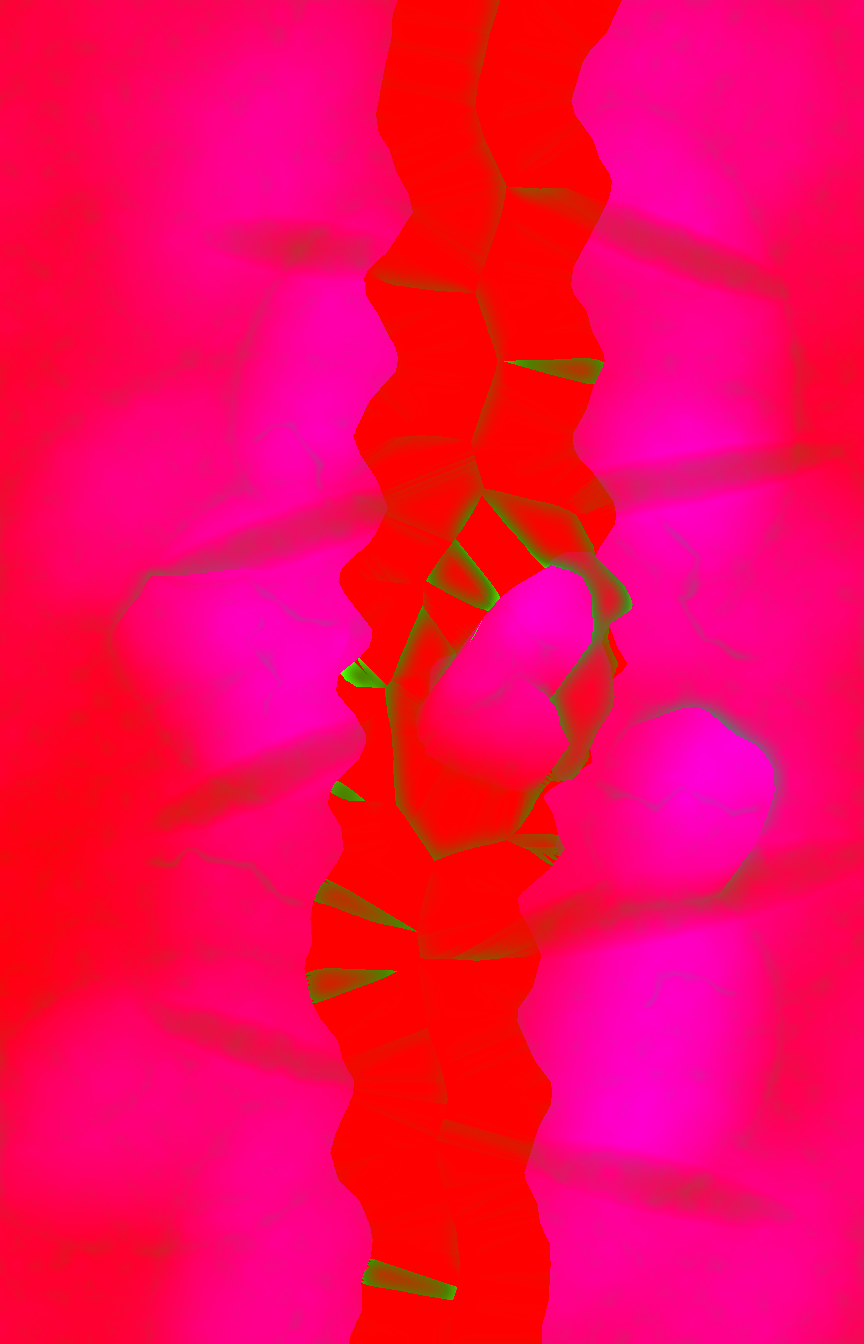
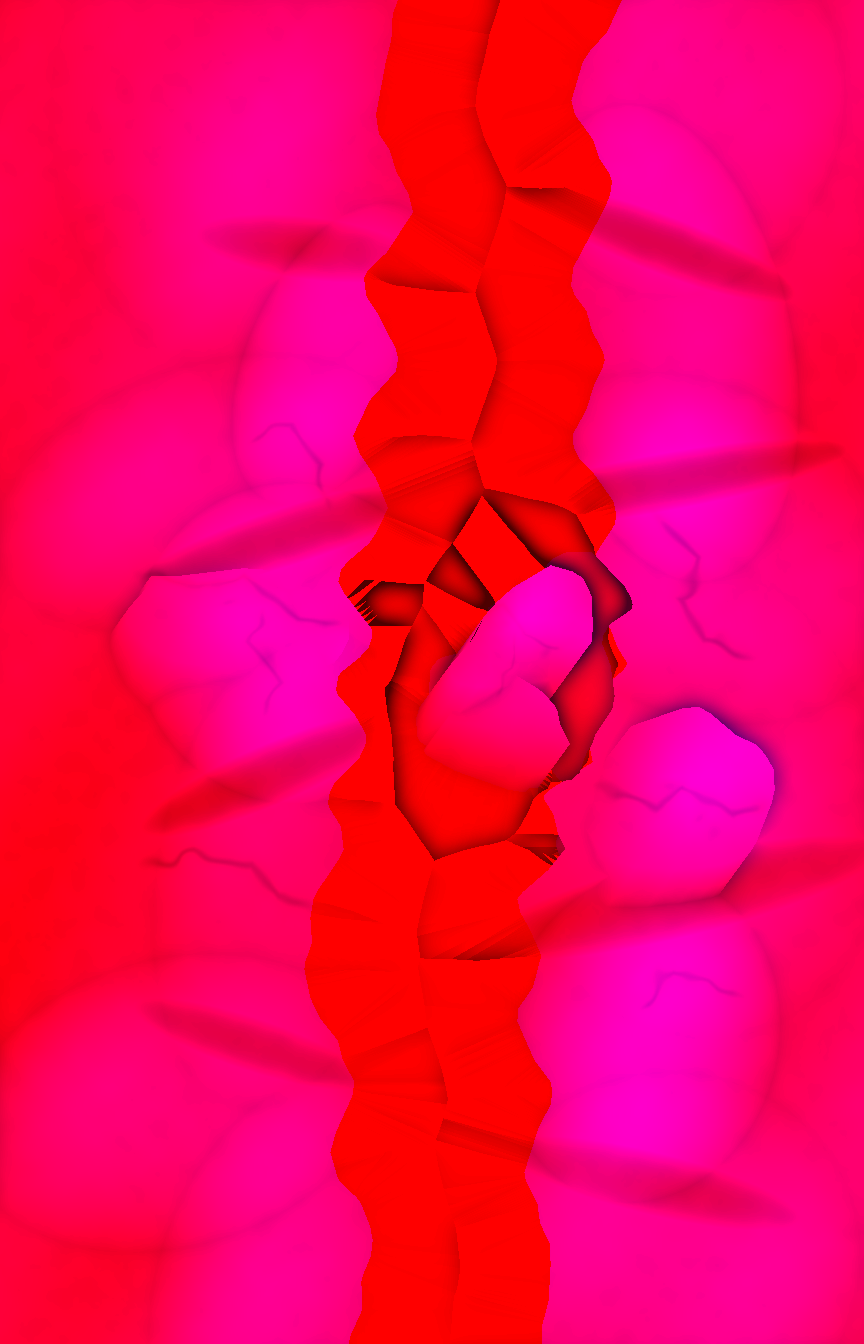
study: refine fractured rock relief and preserve independently playable cave versions

diff --git a/scripts/checkCaveVersions.js b/scripts/checkCaveVersions.js
@@ -1,0 +1,43 @@
+const fs=require('fs'),path=require('path'),assert=require('assert/strict'),crypto=require('crypto');
+const {execFileSync}=require('child_process');
+const {list,build,board}=require('./buildCaveVersions');
+const {openReviewBrowser}=require('../design/cave-room/browser.cjs');
+const root=path.resolve(__dirname,'..'),wait=ms=>new Promise(r=>setTimeout(r,ms));
+const digest=bytes=>crypto.createHash('sha256').update(bytes).digest('hex');
+(async()=>{
+ const before=execFileSync('git',['status','--porcelain'],{cwd:root}).toString();
+ const versions=list(),reports=[];
+ for(const v of versions){
+  const output=build(v),source=path.join(root,'node_modules/.cache/cave-versions',v.id,'source');
+  assert(!fs.existsSync(path.join(source,'project.private.config.json')));
+  assert(!fs.existsSync(path.join(source,'.git')));
+  const assetDir=v.mode==='sculpt'?'design/cave-room/sculpt/assets':'images/cave-rock';
+  for(const file of ['room-albedo.png','room-normal.png','room-detail.png','room-back.png']){
+   const expected=execFileSync('git',['show',v.commit+':'+assetDir+'/'+file],{cwd:root,maxBuffer:16*1024*1024});
+   assert.equal(digest(fs.readFileSync(path.join(source,assetDir,file))),digest(expected),'Frozen assets must belong to '+v.ref);
+  }
+  const b=await openReviewBrowser('http://127.0.0.1:60972/'+output.entry,1000,920);
+  try{
+   await b.evaluate('Object.defineProperty(window,"performance",{value:undefined,configurable:true});true');
+   const rect=await b.evaluate('(()=>{const r=document.getElementById("game").getBoundingClientRect();return {x:r.x,y:r.y,w:r.width,h:r.height}})()');
+   await b.click(rect.x+187.5/375*rect.w,rect.y+554/667*rect.h);
+   for(let i=0;i<240;i++){if(await b.evaluate('DeepTapeGame.state.mazeRescue?.phase==="play"'))break;await wait(100);}
+   assert.equal(await b.evaluate('DeepTapeGame.state.mazeRescue?.phase'),'play');
+   // Let the existing initial oxygen grace period expire before measuring consumption.
+   await wait(6500);
+   const first=await b.evaluate('({o2:DeepTapeGame.player.o2,anim:DeepTapeGame.player.animTime,rock:DeepTapeGame.cave.stats()})');
+   await wait(1100);
+   const after=await b.evaluate('({o2:DeepTapeGame.player.o2,anim:DeepTapeGame.player.animTime,rock:DeepTapeGame.cave.stats()})');
+   assert(first.rock.loaded&&after.rock.loaded);assert.equal(after.rock.mode,'normal-map');
+   assert(after.o2<first.o2&&after.anim>first.anim,JSON.stringify({id:v.id,first,after}));assert.equal(b.errors.length,0);
+   await b.evaluate('DeepTapeGame.menu();true');await wait(100);
+   const exit=await b.evaluate('({screen:DeepTapeGame.state.screen,rock:DeepTapeGame.cave.stats()})');
+   assert.equal(exit.screen,'menu');assert(!exit.rock.loaded);assert.equal(exit.rock.textureBytes,0);
+   reports.push({id:v.id,ref:v.ref,assetsFromOwnCommit:true,noPerformance:true,first,after,exit,errors:b.errors});
+  }finally{await b.close();}
+ }
+ board(versions);
+ assert.equal(execFileSync('git',['status','--porcelain'],{cwd:root}).toString(),before,'Historical builds must not modify working-tree files or branch');
+ fs.writeFileSync(path.join(root,'node_modules/.cache/cave-versions/check-report.json'),JSON.stringify({reports,scope:'Independent historical actual-game desktop runs, not phone GPU acceptance'},null,2));
+ console.log(JSON.stringify({versions:reports.map(r=>({id:r.id,ref:r.ref,assetsFromOwnCommit:true,play:true,exit:true})),workingTreeUnchanged:true},null,2));
+})().catch(e=>{console.error(e);process.exitCode=1});

diff --git a/design/cave-room/sculpt/progress.py b/design/cave-room/sculpt/progress.py
@@ -1,0 +1,27 @@
+from pathlib import Path
+from PIL import Image
+import json
+
+ROOT=Path(__file__).resolve().parents[3]
+CACHE=ROOT/'node_modules/.cache'
+STUDY=CACHE/'cave-sculpt-study'
+OLD=STUDY/'sculpt-depth'
+NEW=STUDY/'sculpt-e02-refined'
+OUT=CACHE/'cave-forward'
+OUT.mkdir(parents=True,exist_ok=True)
+frames=[]
+for i in range(13):
+    a=Image.open(OLD/f'turn-{i:02}.png').convert('RGB').resize((300,534),Image.Resampling.LANCZOS)
+    b=Image.open(NEW/f'turn-{i:02}.png').convert('RGB').resize((300,534),Image.Resampling.LANCZOS)
+    pair=Image.new('RGB',(608,534),(16,25,30));pair.paste(a,(0,0));pair.paste(b,(308,0));frames.append(pair)
+frames+=list(reversed(frames[1:-1]))
+frames[0].save(OUT/'turn.gif',save_all=True,append_images=frames[1:],duration=150,loop=0,optimize=True)
+html='''<!doctype html><html lang="zh-CN"><head><meta charset="utf-8"><meta name="viewport" content="width=device-width,initial-scale=1"><title>DEEPTAPE · E02进展与版本留存</title><style>
+*{box-sizing:border-box}body{margin:0;background:#111c22;color:#e1e2d9;font:15px -apple-system,BlinkMacSystemFont,"PingFang SC",sans-serif;line-height:1.75}main{max-width:1040px;margin:auto;padding:46px 22px}h1{font-size:32px;line-height:1.35}h2{font-size:21px;margin-top:0}p,small{color:#a9beba}section{padding:24px;border:1px solid #34505a;background:#182930;margin:24px 0;border-radius:5px}.pair{display:grid;grid-template-columns:1fr 1fr;gap:16px}.pair figure{margin:0;text-align:center}.pair img{width:375px;max-width:100%;height:auto}figcaption{font-size:13px;color:#b2c6bf;margin-bottom:12px}.actions{display:flex;gap:10px;flex-wrap:wrap;margin:20px 0}button,a.action{padding:10px 15px;color:#d2e3d9;background:#213b40;border:1px solid #54756f;border-radius:3px;text-decoration:none;cursor:pointer;font:inherit}button.active,a.primary{color:#142d2c;background:#b6cec0}button:focus-visible,a:focus-visible{outline:2px solid #dfcba1;outline-offset:3px}.proof{display:grid;grid-template-columns:1.6fr 1fr;gap:24px}.proof figure{margin:0}.proof img{width:100%;height:auto}footer{font-size:12px;color:#8aa5a4}a{color:#b8d7c6}@media(max-width:640px){main{padding:26px 12px}h1{font-size:27px}section{padding:16px}.pair{gap:8px}.proof{display:block}.proof figure{margin-bottom:20px}}
+</style></head><body><main><small>DEEPTAPE / E02 / PRESERVED CHECKPOINTS</small><h1>继续厚岩方向，旧版全部留下。</h1><p>先把大形保住，再让凹槽与有限裂缝参与受光。第一遍细碎凹凸太多，已独立留档；当前E02收敛版减少微起伏，保留主裂缝、局部破口与克制的层理。</p><div class="actions"><a class="action primary" href="../cave-versions/sculpt-e02/source/node_modules/.cache/cave-sculpt-study/live/game.html">实际游戏试跑E02</a><a class="action" href="../cave-versions/index.html">打开所有保留版本</a></div><p>手机仍保留已跑通的v1.0.20。本轮是独立实验，不冒充最终美术或真机性能验收。</p>
+<section><h2>同观察点的实际游戏对照</h2><p>左侧是E01，右侧是E02。仍使用游戏的潜水员、HUD、水体手电和正常模拟；按同观察点初始化，模拟持续运行，不是像素级冻结截图。</p><div class="actions"><button class="active" data-site="0">断冠</button><button data-site="1">左壁</button><button data-site="2">右壁</button></div><div class="pair"><figure><figcaption>E01 · 原厚断面实验，固定回退点</figcaption><img id="old" src="../cave-sculpt-study/sculpt-depth/site-0.png" alt="E01实际游戏"></figure><figure><figcaption>E02 · 收敛后的凹槽与断口实验</figcaption><img id="new" src="../cave-sculpt-study/sculpt-e02-refined/site-0.png" alt="E02实际游戏"></figure></div></section>
+<section><h2>转灯与单色检查</h2><div class="proof"><figure><figcaption>转动实际手电：左E01，右E02</figcaption><img src="turn.gif" alt="E01和E02转灯对照"></figure><figure><figcaption>E02去掉颜色纹理，观察凹槽与厚面</figcaption><img src="../cave-sculpt-study/sculpt-e02-refined/untextured.png" alt="E02单色受光验证"></figure></div><p>主裂缝是有限终止的真实深度槽，不是画死的黑线；新增起伏用相同表面的导数更新法线。轮廓局部破损也同步到实际碰撞、手电、锚点和绳索。</p></section>
+<section><h2>当前结论与下一步</h2><p>这版缓解了过于光滑的表面，但整体断面和侧面的自然节奏仍未定稿。下一步继续优先组织岩体层次、断口与遮挡，而不是加更多纹理盖住问题。</p><p>实验四图约1.18MiB，未新增图片数量或解码内存。法线与材质采用有损但误差受控导出，高度与抗锯齿透明覆盖率仍保留8位精度。手机包体没有改变；大小通过不代表手机GPU帧率通过。</p><p>原美术、手机基线、E01、E02初稿和E02收敛版分别有Git提交与命名回退点。版本目录从各自标签重建独立资源，不共用当前贴图，也不切换工作分支。</p></section><footer>所有回退点为本地Git留存，未推送远端。缓存不是备份，可从固定标签重建。当前仍是单层可见深度烘焙，不是完整实时3D洞穴。</footer>
+</main><script>for(const b of document.querySelectorAll('[data-site]'))b.onclick=()=>{for(const a of document.querySelectorAll('[data-site]'))a.classList.toggle('active',a===b);document.getElementById('old').src='../cave-sculpt-study/sculpt-depth/site-'+b.dataset.site+'.png';document.getElementById('new').src='../cave-sculpt-study/sculpt-e02-refined/site-'+b.dataset.site+'.png';};</script></body></html>'''
+(OUT/'index.html').write_text(html)
+print(OUT/'index.html')

diff --git a/design/cave-room/sculpt/bake.py b/design/cave-room/sculpt/bake.py
@@ -223,9 +223,17 @@ slab([[526,605],[582,589],[645,642],[623,711],[530,723],[481,678]],
 from shapely.geometry import Polygon
 from shapely.ops import unary_union
 expanded=[]
+from shapely.geometry import Point
+from shapely.affinity import scale as scale_polygon
+# Sparse authored edge breaks, not a universal wavy edge or random pixel teeth.
+edge_breaks=[[(309,531,6,9)],[(458,658,6,7)],[(445,661,8,5),(509,588,5,8)]]
 for owner,p in enumerate(shapes):
     faces=[Polygon(np.array(ps)[:,:2]).buffer(0) for ps,n,pigment,smooth,tag in triangles if tag==owner]
-    merged=unary_union([Polygon(p).buffer(0)]+faces).simplify(.95,preserve_topology=True)
+    merged=unary_union([Polygon(p).buffer(0)]+faces)
+    for cx,cy,rx,ry in edge_breaks[owner]:
+        cutter=scale_polygon(Point(cx,cy).buffer(1,resolution=12),rx,ry,origin=(cx,cy))
+        merged=merged.difference(cutter)
+    merged=merged.simplify(.85,preserve_topology=True)
     if merged.geom_type!='Polygon':
         merged=max(merged.geoms,key=lambda p:p.area)
     expanded.append([[round(x,2),round(y,2)] for x,y in list(merged.exterior.coords)[:-1]])
@@ -307,16 +315,27 @@ material=np.clip(material+mineral_pigment+grain[:,:,None],0,1)
 material[~mask] = 0
 
 
-def write_rgba(name, rgb, a):
-    data = np.dstack([np.clip(np.rint(rgb*255),0,255).astype(np.uint8), a.astype(np.uint8)])
+def write_rgba(name, rgb, a, quantized_channels=()):
+    # Bounded quantization; not lossless. Alpha and depth retain all eight bits.
+    rgb=np.clip(rgb,0,1).copy()
+    for k in quantized_channels:
+        rgb[:,:,k]=np.rint(rgb[:,:,k]*63)/63
+    data = np.dstack([np.rint(rgb*255).astype(np.uint8), a.astype(np.uint8)])
     Image.fromarray(data).save(OUT/name, optimize=True, compress_level=9)
+    return data
 
 
-write_rgba('room-albedo.png', material, alpha)
-write_rgba('room-normal.png', normal_map*.5+.5, np.full((H,W),255))
-# Existing three runtime channels: no extra decoded image/GPU texture.
-detail = np.stack([ao, np.clip(cavity/100,0,1), np.clip(height/HEIGHT_SCALE,0,1)], axis=2)
-write_rgba('room-detail.png', detail, np.full((H,W),255))
+write_rgba('room-albedo.png', material, alpha, (0,1,2))
+encoded_normal=write_rgba('room-normal.png', normal_map*.5+.5, np.full((H,W),255), (0,1,2))
+decoded_normal=encoded_normal[:,:,:3].astype(float)/255*2-1
+normal_length=np.linalg.norm(decoded_normal,axis=2)
+decoded_normal/=np.maximum(1e-8,normal_length)[:,:,None]
+angular_error=np.degrees(np.arccos(np.clip(np.sum(decoded_normal*normal_map,axis=2),-1,1)))[mask]
+assert angular_error.max()<1.8,'Normal export must keep bounded angular error'
+# G is not read by the renderer. Keep the slot zero instead of redundant cavity data.
+# AO is six-bit; depth remains eight-bit with no downsampling or edge thresholding.
+detail = np.stack([ao, np.zeros_like(ao), np.clip(height/HEIGHT_SCALE,0,1)], axis=2)
+write_rgba('room-detail.png', detail, np.full((H,W),255), (0,))
 shutil.copyfile(ROOT/'images/cave-rock/room-back.png', OUT/'room-back.png')
 scene = dict(BASE)
 scene.update(shapes=shapes, heightScale=HEIGHT_SCALE, lampHeight=LAMP_HEIGHT, projection=[PX,PY])
@@ -330,6 +349,9 @@ report = dict(outlineVertices=sum(map(len,shapes)), baselineVertices=sum(map(len
               revision='E02-geological-relief',
               reliefRange=np.percentile(relief[mask],[1,10,50,90,99]).tolist(),
               fissureSamples=int(np.count_nonzero((fracture_depth<-5)&mask)),
+              export=dict(lossless=False,normalAngularP99=float(np.percentile(angular_error,99)),
+                          normalAngularMax=float(angular_error.max()),
+                          normalChannels=64,AOChannels=64,depthBits=8,alphaBits=8,unusedGreen=0),
               limits='single visible-depth bake: not full runtime 3D or view-dependent disocclusion',
               bytes=sum(p.stat().st_size for p in OUT.glob('*.png')))
 (OUT/'report.json').write_text(json.dumps(report, indent=2))

diff --git a/design/cave-room/sculpt/check_geology.py b/design/cave-room/sculpt/check_geology.py
@@ -1,0 +1,31 @@
+import json
+import numpy as np
+from geology import fissure,displaced_normal,sculpt_relief
+
+for scale in [1,1.2,2]:
+    y,x=np.mgrid[0:80*scale,0:120*scale].astype(float)
+    y/=scale
+    x/=scale
+    px,py=.35,-.48
+    old_h=.24*x-.31*y
+    old_n=np.stack([np.full(x.shape,-.24),np.full(x.shape,.31),np.full(x.shape,1-px*.24+py*.31)],axis=2)
+    old_n/=np.linalg.norm(old_n,axis=2)[:,:,None]
+    extra=1.8*np.sin(x*.067)+.6*np.cos(y*.11)
+    new_n=displaced_normal(old_n,extra,scale,px,py)
+    dy,dx=np.gradient(old_h+extra,1/scale)
+    expected=np.stack([-dx,-dy,1-px*dx-py*dy],axis=2)
+    expected/=np.linalg.norm(expected,axis=2)[:,:,None]
+    assert np.max(abs(new_n-expected))<1e-12
+    unchanged=displaced_normal(old_n,np.full(x.shape,5.),scale,px,py)
+    assert np.max(abs(old_n-unchanged))<1e-12
+x=np.array([[10,40,65,95,120]],float)
+y=np.full_like(x,30)
+cut=fissure(x,y,[[30,30],[90,30]],4,14)
+assert cut[0,2]<-10
+assert abs(cut[0,0])<1e-6 and abs(cut[0,-1])<1e-6,'Finite fissures must terminate'
+y,x=np.mgrid[0:240,0:240].astype(float)
+a,p,c=sculpt_relief(x,y,1)
+b,q,d=sculpt_relief(x,y,1)
+assert np.array_equal(a,b) and np.array_equal(p,q) and np.array_equal(c,d),'Bake must be reproducible'
+assert np.max(abs(p))<.15,'Pigment must not bake a strong fixed key light'
+print(json.dumps({'normalDerivative':'Matches actual projected depth derivative at three resolutions','finiteFissure':True,'reproducible':True,'scope':'Geometry math, not art or phone performance acceptance'},indent=2))

diff --git a/design/cave-room/sculpt/check.py b/design/cave-room/sculpt/check.py
@@ -49,7 +49,12 @@ for h in [8,29,70,110,140,185]:
 assert scene['heightScale']>report['heightPercentiles'][-1]
 mask=albedo[:,:,3]>250
 n=normal[:,:,:3].astype(float)/255*2-1
-assert np.percentile(abs(np.linalg.norm(n[mask],axis=1)-1),99)<.013
+export=report.get('export')
+assert np.percentile(abs(np.linalg.norm(n[mask],axis=1)-1),99)<(.029 if export else .013)
+if export:
+    assert export['normalAngularMax']<1.8 and export['normalAngularP99']<1.6
+    assert export['alphaBits']==export['depthBits']==8
+    assert (detail[:,:,1]==0).all(),'Unused channel must not cost entropy or affect lighting'
 assert report['meshFaces']>50
 assert len(list(OUT.glob('room-*.png')))==4,'No extra runtime image or GPU texture'
 print(json.dumps(dict(coverageSamples=samples,outlineVertices=report['outlineVertices'],fractionalCoverage=True,sharedDepthAndNormal=True,faces=report['meshFaces'],scope='Geometry/resource invariants; aesthetic and real-phone acceptance still separate'),indent=2))

diff --git a/design/cave-room/sculpt/geology.py b/design/cave-room/sculpt/geology.py
@@ -50,11 +50,11 @@ def sculpt_relief(x,y,scale):
     grain=continuous_noise(shape,1.25,75,scale)
     wx=x+macro*5.5+middle*1.6
     wy=y+macro*4+middle*1.8
-    # Unequal tilted strata, interrupted by fracture zones. No Voronoi stone tiling.
-    coordinate=wy*.052+wx*.020+macro*.45
-    band=np.sin(coordinate)+.31*np.sin(coordinate*2.23+.8)
-    strata=5.1*np.tanh(band*1.7)*( .60+.25*np.tanh(macro*.6))
-    relief=strata+middle*1.9+small*.68+grain*.16
+    # Subordinate relief: retain broad mass planes instead of covering them in lumps.
+    coordinate=wy*.044+wx*.016+macro*.25
+    band=np.sin(coordinate)+.16*np.sin(coordinate*2.23+.8)
+    strata=2.7*np.tanh(band*1.05)*(.60+.25*np.tanh(macro*.6))
+    relief=strata+middle*.58+small*.11+grain*.035
     cracks=[
         ([[104,473],[166,488],[204,481],[246,513],[290,520]],3.2,13),
         ([[225,508],[215,542],[233,568],[219,598]],2.3,10),

diff --git a/design/cave-room/VERSIONS.md b/design/cave-room/VERSIONS.md
@@ -1,0 +1,55 @@
+# 洞穴美术与运行版本档案
+
+用户于2026-10-26明确要求继续推进，同时把不同版本留住，保留回退机会。规则是每轮重要版本独立提交并加命名标签；后续不移动旧标签，也不强制重写历史。
+
+| 回退点 | 保存内容 | 状态 |
+| --- | --- | --- |
+| `cave/art-approved-01` | 首次让用户稍微满意的断冠双岔洞美术、原图与制作管线 | 美术方向基线，非定稿 |
+| `cave/mobile-v1.0.20` | 手机已跑通版本、真实玩法、无performance兼容修复 | 手机运行基线 |
+| `cave/sculpt-e01` | 上一轮厚岩雕刻、投影侧面与不规则轮廓 | 独立实验，偏光滑 |
+| `cave/sculpt-e02-rough` | 第二轮地质雕刻第一遍、未量化全精度资源 | 独立初稿，细碎凹凸太多 |
+| `cave/sculpt-e02` | 第二轮收敛版：主裂缝、有限凹槽、局部轮廓破口与受控资源导出 | 独立实验，未替换手机版 |
+
+普通手机版仍为v1.0.20，不因开发实验增加资源包或变更存档。用户的私有开发者工具配置不在本轮提交或快照导出范围内。所有提交和标签均为本地保存，未自动推送远端；这不是异地备份。
+
+## 同时打开不同历史版本
+
+```sh
+npm run cave:versions -- --all
+```
+
+从每个固定Git标签导出相关源码、四张岩体图、运行资源及浏览器适配器到各自缓存目录，生成 `node_modules/.cache/cave-versions/index.html`。入口同时存在，不切换当前分支、不覆盖当前贴图，不让多个版本暗中共用新图。
+
+也可只重建一个版本：
+
+```sh
+npm run cave:versions -- --build mobile-v120
+npm run cave:versions -- --build sculpt-e01
+npm run cave:versions -- --build sculpt-e02-rough
+npm run cave:versions -- --build sculpt-e02
+```
+
+版本库是Git提交与标签，不是node_modules缓存。缓存可以删除后重新生成；若本地没有对应标签，先恢复仓库/标签再重建，不改目录ID去冒充旧版本。
+
+在本地静态服务60972上验收历史版本：
+
+```sh
+npm run cave:versions:check
+```
+
+检查四张岩体资产的内容来自各自提交、无私有配置拷入、无performance时游戏继续绘制与扣氧，退出释放资源，并确认当前工作区未被历史构建修改。手机帧率与最终美术验收仍单独进行。
+
+## 真正回退代码时
+
+仅查看和试跑旧版，用上面的独立档案，不必回退工作区。
+
+如果需要继续在旧版本上开发，先检查并保存当前未提交改动，再从指定标签新建分支，而不是强制覆盖当前分支：
+
+```sh
+git status --short
+git switch -c cave/return-mobile-v120 cave/mobile-v1.0.20
+```
+
+这是手动回退说明，不是本轮已执行操作。存在未提交改动时先按内容处理，尤其保留用户私人配置；不得使用 `git reset --hard` 或覆盖现有旧标签来图省事。
+
+原历史提交60fed3e、1d1c7c5、ac0e5e0、21966ab、9457817也仍在Git历史中；重要基线额外使用命名标签，方便后续精确回看。

diff --git a/design/cave-room/sculpt/README.md b/design/cave-room/sculpt/README.md
@@ -28,7 +28,7 @@
 
 运行中仍是单层可见深度烘焙，不是完整实时三维洞穴，也没有实现所有背面、多层自遮挡与移动视角的真实体积视差。不能用“735个面”“有法线”证明美术过关。
 
-## 自检结论与下一步
+## E01自检结论与下一步
 
 程序与几何检查通过不等于优秀观感。当前关闭纹理仍能读出断冠厚面和凹槽，但表面偏光滑、部分转折和局部阴影显得人工，石质感与整体自然节奏不够。本轮只保留为独立实验，不作为正式美术升级替换用户手机已跑通的基线。
 
@@ -77,3 +77,18 @@ python3 design/cave-room/sculpt/review.py
 ## 安全边界
 
 普通手机仍为v1.0.20，原岩体运行资源和造型数据未改变。实验资源放在被打包排除的开发目录，不新增手机包体。若后续合入，四图尺寸/解码内存数量不增加；五次近表面采样比旧三次更贵，需真机验证，不能用静态体积变小承诺帧率。
+
+
+## E02：地质雕刻与版本留存
+
+本轮已继续制作，第一遍细碎起伏过多，单独提交为cave/sculpt-e02-rough；收敛版cave/sculpt-e02减少微起伏，以有限主裂缝、错层与侵蚀凹槽支持大形，加入少量轮廓破口。两版与E01都可独立回退，不覆盖手机v1.0.20。完整档案见 ../VERSIONS.md。
+
+新增geology.py，凹槽是实际深度变化，法线用同一深度在斜投影下的微分生成；check_geology.py在三个分辨率下验证微分、裂缝终止与可重复烘焙。表面仍是单层可见深度，不能宣称完整3D或已解决全部多层遮挡。
+
+资源导出从E02初稿约2.95MiB收敛至约1.18MiB；法线、材质与AO有损量化到每通道64级，法线最大角误差低于1.8度。高度和边缘透明覆盖率保留完整8位，不降尺寸、不硬切半透明边缘。误差报告与上限检查纳入check.py，不能称为无损压缩。
+
+使用npm run cave:versions -- --all，可同时重建四个历史实际游戏入口。npm run cave:versions:check检查每版资源来自其固定提交，并核对无performance时运行和退出释放，不切换工作区。
+
+本轮真实游戏采样标签是sculpt-e02-refined，上一轮sculpt-depth仍保留；python3 design/cave-room/sculpt/progress.py生成node_modules/.cache/cave-forward/index.html，提供旧实验与新实验、转灯和单色对照。该对照缓存不是正式备份，各版源码和资产以Git标签为准。
+
+当前自检：主裂缝与粗糙度比E01明确，但整体断面和侧面仍有人工构造感。继续优化主形、层次与遮挡，不用细节堆叠掩盖大形，不将实验当成手机美术定稿。
